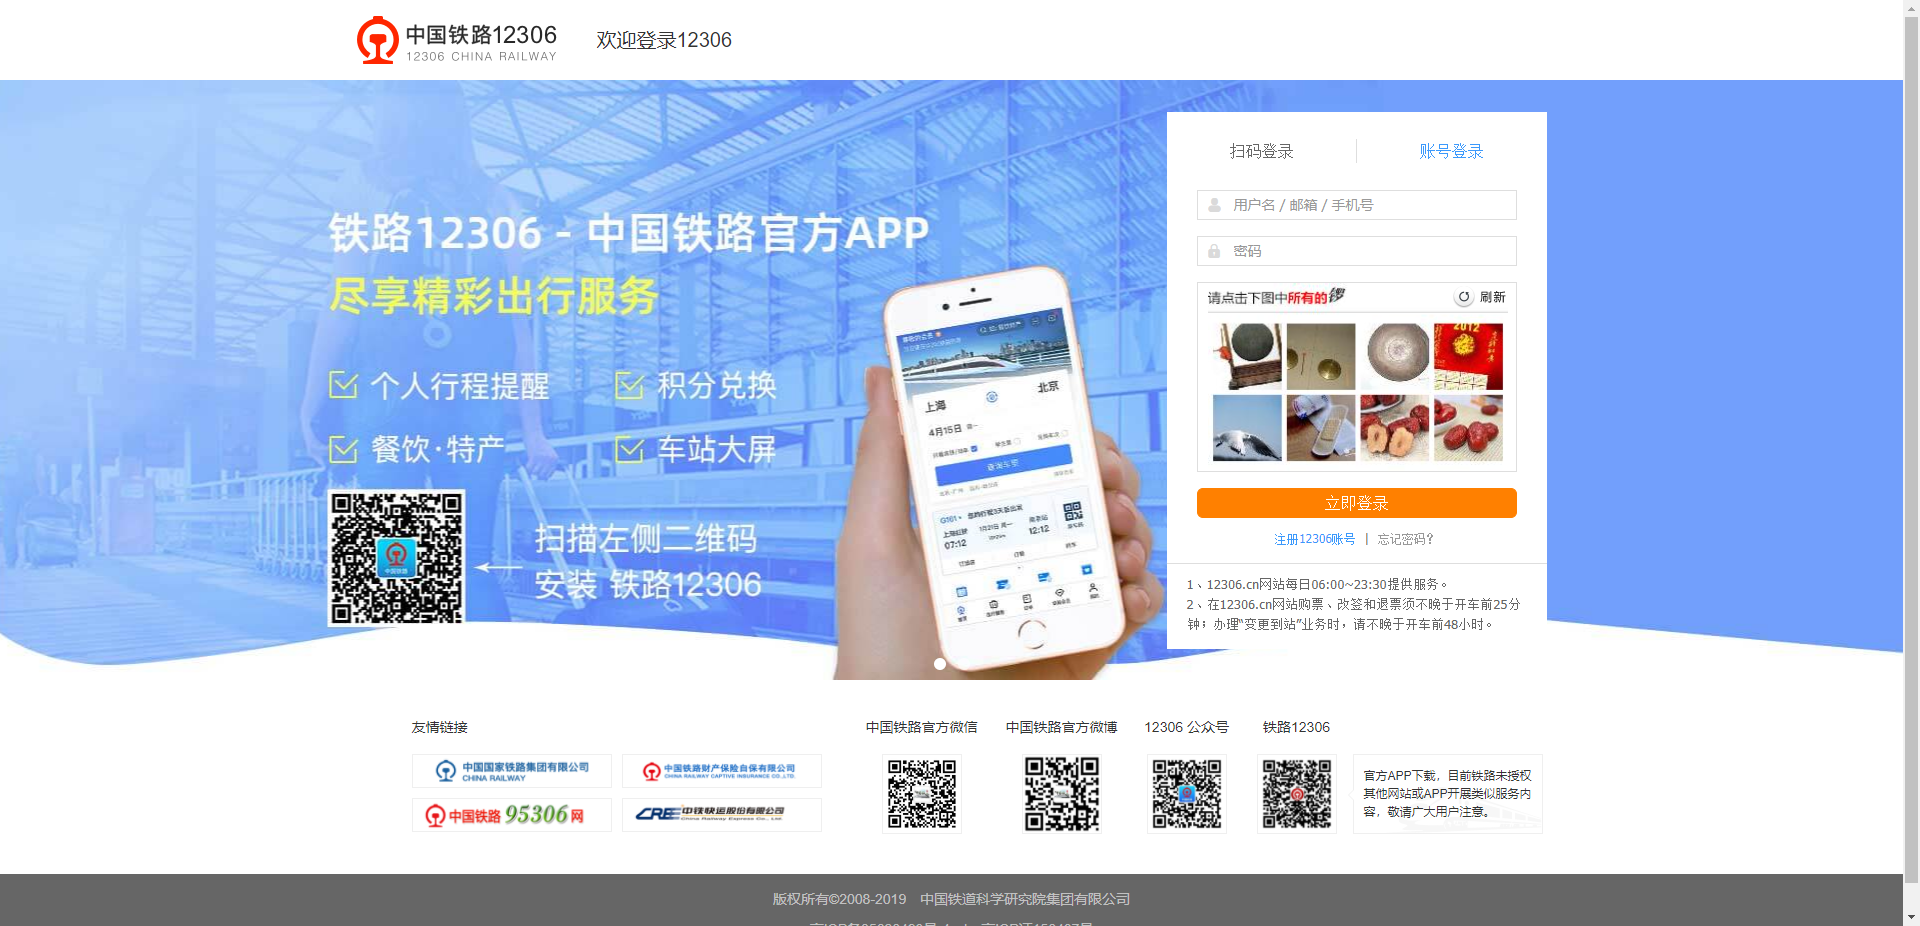
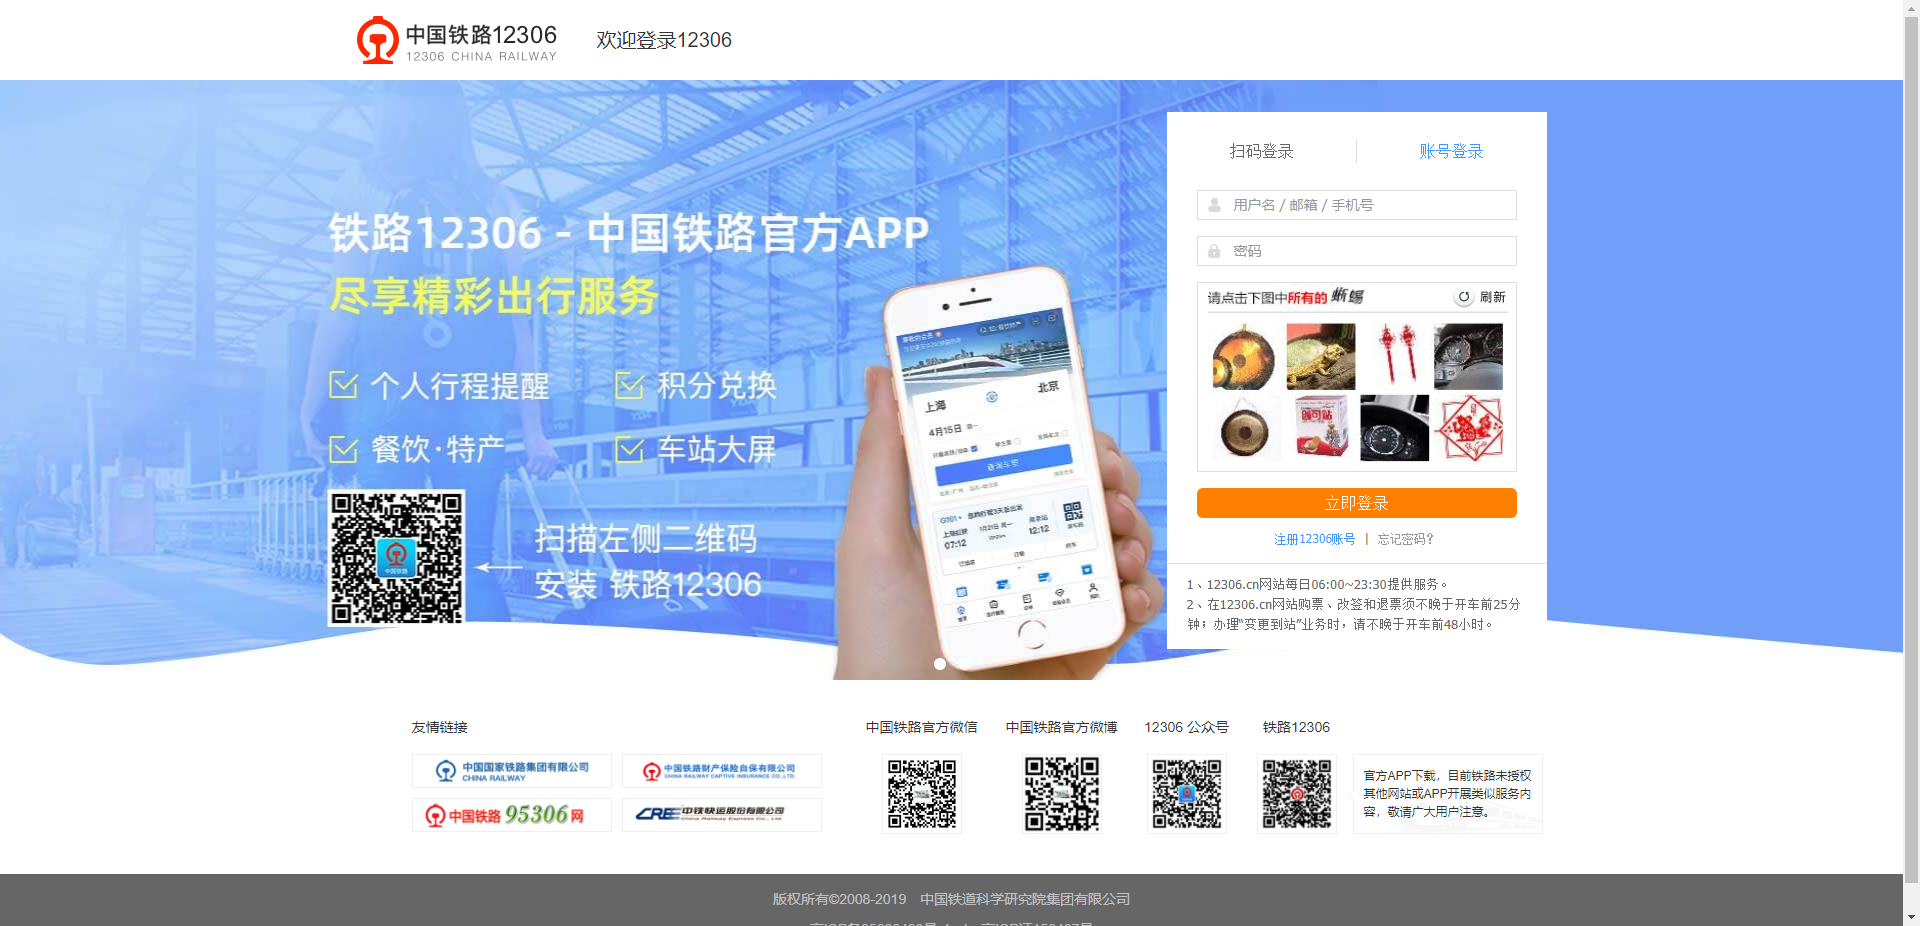
demo about 12306

Changed region(s): [[0.625, 0.3024, 0.7812, 0.514]]

diff --git a/demo_spider_2/selenium_test/12306_test.py b/demo_spider_2/selenium_test/12306_test.py
@@ -55,10 +55,11 @@ class Chaojiying_Client(object):
 
 from selenium import webdriver
 import time
-from selenium.webdriver.common.action_chains import ActionChains
+from selenium.webdriver import ActionChains
 from PIL import Image
 
 bro = webdriver.Chrome(executable_path='./chromedriver.exe')
+bro.maximize_window()
 bro.get('https://kyfw.12306.cn/otn/resources/login.html')
 time.sleep(2)
 a_tag = bro.find_element_by_class_name('login-hd-account')
@@ -72,6 +73,43 @@ size = code_img_ele.size
 rangle = (int(location['x']),int(location['y']),int(location['x']+size['width']),int(location['y']+size['height']))
 
 i = Image.open('./a.png')
-code_img_name = 'code.png'
+code_img_name = './code.png'
 frame = i.crop(rangle)
 frame.save(code_img_name)
+
+chaojiying = Chaojiying_Client('shilan', 'zhangshilan1995', '910025')
+im = open('code.png', 'rb').read()
+result = chaojiying.PostPic(im, 9004)['pic_str']
+all_list = []
+if '|' in result:
+    list_1 = result.split('|')
+    count_1 = len(list_1)
+    for i in range(count_1):
+        xy_list = []
+        x = int(list_1[i].split(',')[0])
+        y = int(list_1[i].split(',')[1])
+        xy_list.append(x)
+        xy_list.append(y)
+        all_list.append(xy_list)
+
+else:
+    x = int(result.split(',')[0])
+    y = int(result.split(',')[1])
+    xy_list = []
+    xy_list.append(x)
+    xy_list.append(y)
+    all_list.append(xy_list)
+print(xy_list)
+for l in all_list:
+    x = l[0]
+    y = l[1]
+    ActionChains(bro).move_to_element_with_offset(code_img_ele,x,y).click().perform()
+    time.sleep(2)
+
+bro.find_element_by_id('J-userName').send_keys('xxxxxx')
+time.sleep(1)
+bro.find_element_by_id('J-password').send_keys('xxxxx')
+time.sleep(1)
+bro.find_element_by_id('J-login').click()
+time.sleep(5)
+bro.quit()
